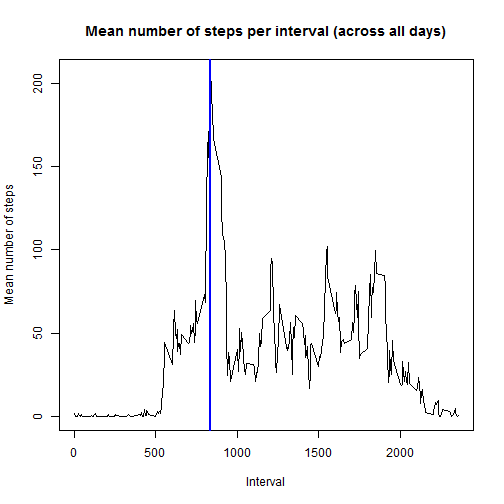
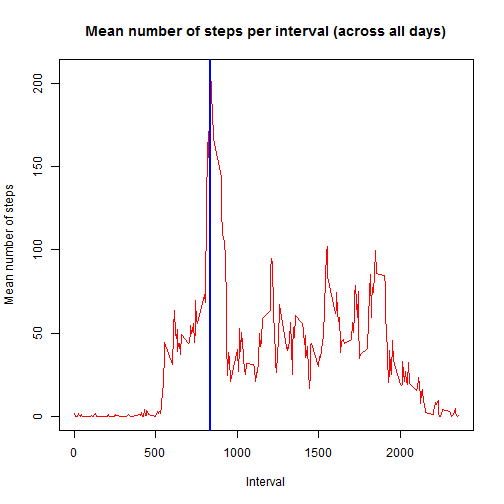
Better graphs and explanations

diff --git a/PA1_template.html b/PA1_template.html
@@ -216,17 +216,19 @@ Mean of the total number of steps taken by day: <strong><em>10766.19</em></stron
 
 <h2>What is the average daily activity pattern?</h2>
 
-<p>Here I compute the average of steps per interval across all dates and plot</p>
+<p>Here I compute the average of steps per interval across all dates and plot with a vertical line at the maximum.</p>
 
 <pre><code class="r">byInterval &lt;- aggregate(dvalid$steps, by=list(interval=dvalid$interval), FUN=mean)
-plot(byInterval$interval, byInterval$x, type=&quot;l&quot;, main=&quot;Mean number of steps per interval (across all days)&quot;, xlab=&quot;Interval&quot;, ylab=&quot;Mean number of steps&quot;)
+plot(byInterval$interval, byInterval$x, type=&quot;l&quot;, 
+     main=&quot;Mean number of steps per interval (across all days)&quot;, 
+     xlab=&quot;Interval&quot;, ylab=&quot;Mean number of steps&quot;, col=&quot;red&quot;)
 # Order the intervals in decreasing order and take the first one
 a         &lt;- order(byInterval$x, decreasing=TRUE)
 topInt    &lt;- byInterval[a[1],&quot;interval&quot;]
 abline(v=topInt, col=&quot;blue&quot;, lwd=2)
 </code></pre>
 
[2 lines of base64/hex data omitted]
 
 <pre><code class="r">topInt    &lt;- sprintf(&quot;%04s&quot;,as.character(topInt))
 topIntStr &lt;- paste(substring(topInt,1,2),&quot;:&quot;,substring(topInt,3,4), sep=&quot;&quot;)
@@ -283,9 +285,7 @@ Mean of the total number of steps taken by day: <strong><em>10766.19</em></stron
 <h3>Impact of inputing missing data</h3>
 
 <p>Observe that only the median differs (and only by a little value) when we input missing data with estimate values.
-This is just because the estimate has been chosen as the mean for the intervals (hence the mean is exactly the same in both cases).</p>
-
-<p>In global we can say that the impact of inputing missing data has been minimal.</p>
+This is just because the estimate has been chosen as the mean for the intervals (hence the mean is exactly the same in both cases). In global we can say that the impact of inputing missing data has been minimal.</p>
 
 <h2>Are there differences in activity patterns between weekdays and weekends?</h2>
 
@@ -300,7 +300,8 @@ Sys.setlocale(&quot;LC_TIME&quot;, &quot;English&quot;)  # Just to use English d
 wd   &lt;- ifelse(weekdays(dfww$date) %in% c(&#39;Saturday&#39;,&#39;Sunday&#39;), &quot;weekend&quot;, &quot;weekday&quot; )
 dfww$weekwhat &lt;- as.factor(wd)
 byInterval &lt;-aggregate(dfww$steps, by=list(interval=dfww$interval, weekwhat=dfww$weekwhat), FUN=mean)
-xyplot(byInterval$x ~ byInterval$interval |byInterval$weekwhat, type=&quot;l&quot;, layout=c(1,2), xlab=&quot;Interval&quot;, ylab=&quot;Number of Steps&quot;)
+xyplot(byInterval$x ~ byInterval$interval |byInterval$weekwhat, type=&quot;l&quot;, layout=c(1,2), 
+       xlab=&quot;Interval&quot;, ylab=&quot;Number of Steps&quot;)
 </code></pre>
 
[1 lines of base64/hex data omitted]

diff --git a/PA1_template.md b/PA1_template.md
@@ -45,11 +45,13 @@ Median of the total number of steps taken by day: ***10765.00***
 Mean of the total number of steps taken by day: ***10766.19*** 
 
 ## What is the average daily activity pattern?
-Here I compute the average of steps per interval across all dates and plot
+Here I compute the average of steps per interval across all dates and plot with a vertical line at the maximum.
 
 ```r
 byInterval <- aggregate(dvalid$steps, by=list(interval=dvalid$interval), FUN=mean)
-plot(byInterval$interval, byInterval$x, type="l", main="Mean number of steps per interval (across all days)", xlab="Interval", ylab="Mean number of steps")
+plot(byInterval$interval, byInterval$x, type="l", 
+     main="Mean number of steps per interval (across all days)", 
+     xlab="Interval", ylab="Mean number of steps", col="red")
 # Order the intervals in decreasing order and take the first one
 a         <- order(byInterval$x, decreasing=TRUE)
 topInt    <- byInterval[a[1],"interval"]
@@ -118,9 +120,7 @@ Mean of the total number of steps taken by day: ***10766.19***
 
 ### Impact of inputing missing data
 Observe that only the median differs (and only by a little value) when we input missing data with estimate values.
-This is just because the estimate has been chosen as the mean for the intervals (hence the mean is exactly the same in both cases).
-
-In global we can say that the impact of inputing missing data has been minimal.
+This is just because the estimate has been chosen as the mean for the intervals (hence the mean is exactly the same in both cases). In global we can say that the impact of inputing missing data has been minimal.
 
 
 ## Are there differences in activity patterns between weekdays and weekends?
@@ -139,7 +139,8 @@ dfww <- dvalid
 wd   <- ifelse(weekdays(dfww$date) %in% c('Saturday','Sunday'), "weekend", "weekday" )
 dfww$weekwhat <- as.factor(wd)
 byInterval <-aggregate(dfww$steps, by=list(interval=dfww$interval, weekwhat=dfww$weekwhat), FUN=mean)
-xyplot(byInterval$x ~ byInterval$interval |byInterval$weekwhat, type="l", layout=c(1,2), xlab="Interval", ylab="Number of Steps")
+xyplot(byInterval$x ~ byInterval$interval |byInterval$weekwhat, type="l", layout=c(1,2), 
+       xlab="Interval", ylab="Number of Steps")
 ```
 
 ![plot of chunk unnamed-chunk-5](figure/unnamed-chunk-5-1.png) 
